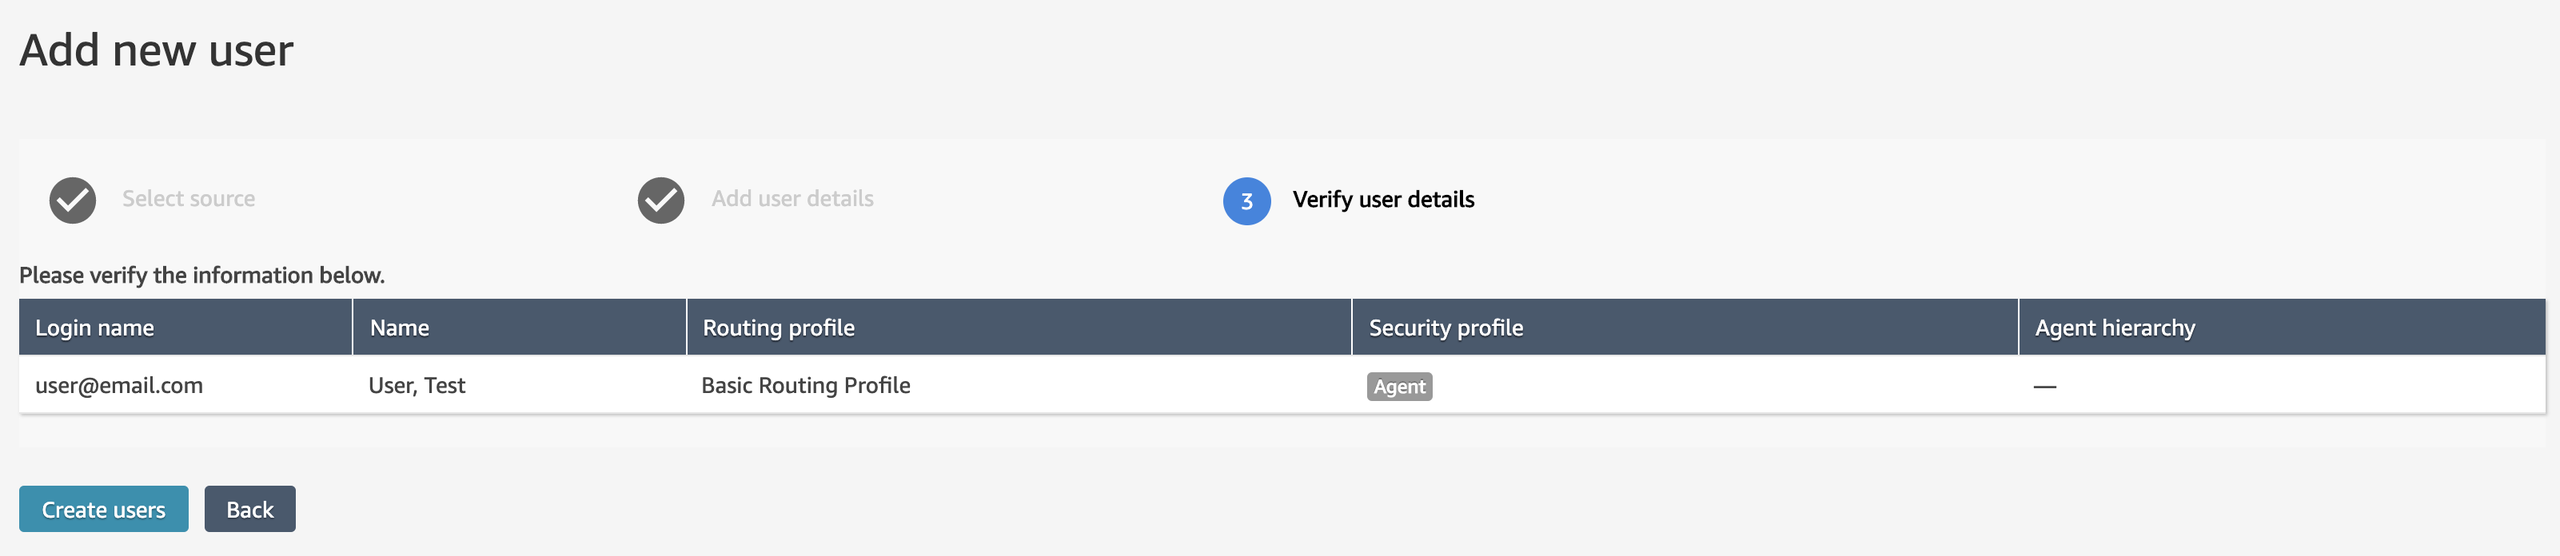
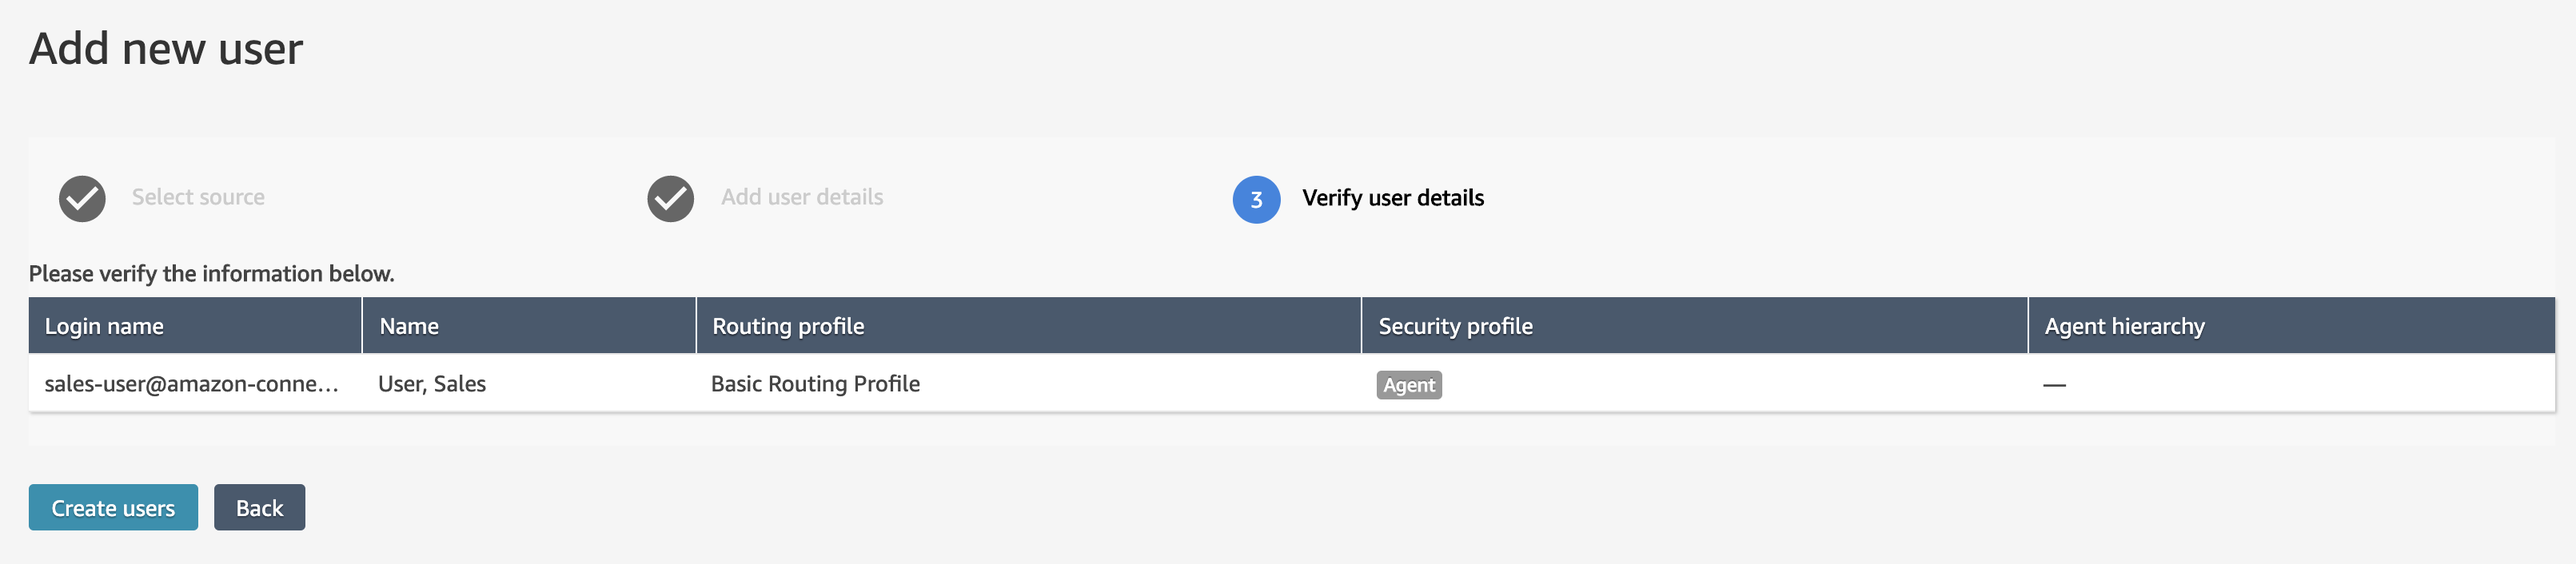
Adding SSO integration

diff --git a/content/start_the_workshop/saml_configuration/create_connect_agents.md b/content/start_the_workshop/saml_configuration/create_connect_agents.md
@@ -1,9 +1,9 @@
 +++
-title = "Create the first Connect Agent"
+title = "Create Connect agents"
 weight = 23
 +++
 
-After configuring the SSO, it is time to go ahead and create the firt Amazon Connect agent. With the SSO setup, users are created and defined in the Connect instance but all the password management will happen through the SSO. Let's then create a new user and see how this integration looks like.
+After configuring the SSO, it is time to go ahead and create the firt Amazon Connect agents. With the SSO setup, users are created and defined in the Connect instance but all the password management will happen through the SSO. Let's then create a few Connect users and see how this integration looks like.
 
 The first step here is to access your Amazon Connect instance with your administrator account (that we created in the previous lab) and create a new user. To do so, visit the [Amazon Connect console](https://console.aws.amazon.com/connect/home) and click in the *Access URL*. You will be taken to the Amazon Connect management portal. In this dashboard, click in the *User management* menu in the left side:
 
@@ -15,7 +15,7 @@ In the new screen, click in **Add new users** buton in the top right corner:
 
 There are mainly two options to create users in the Amazon Connect instance: manually and upload a template with multiple users. In our case, let's just create a single users that we will use for testing. In the *Add new users* screen, make sure that the option **Create and set up a new user.** is selected and click in **Next**.
 
-Fill the user information making sure that you are using a valid email address. Please note that the email used in this step will have to match with the email for the user provisioned in the SSO instance. 
+Enter **Sales** for the First Name and **User** for the last name. Enter **sales@aws-connect-workshop.com** for the Login Name.
 
 After filling the user information, select the **Routing profile** and for the security profile select **Agent**. After filling the user information, click in **Save**:
 
@@ -26,11 +26,28 @@ In the confirmation screen, click in the **Create users** button.
 
 ![CreateUser](/images/enable-aws-sso/create_user.png)
 
-After creating the user in the Connect instance, it is time to provision the user in the SSO. To do so, access the [AWS SSO console](https://console.aws.amazon.com/singlesignon/home#/users) and under the *Users* menu click in the **Add User** button. Then, add information about the new user. Make sure that you are using the **same email address that you used when creating the user in the Connect instance**. After, click in the **Next: Groups** button:
+After creating the *Sales* user, click in the button **Create more users** and create two more users: one for the **Service**  and another one for the **Parts** departments.
+
+Once you complete the other 2 agents you user list should look like this.
+
+![UsersList](/images/enable-aws-sso/connect_users_list.png)
+
+
+After creating the users in the Connect instance, it is time to provision them in the SSO. To do so, access the [AWS SSO console](https://console.aws.amazon.com/singlesignon/home#/users) and under the *Users* menu click in the **Add User** button. Then, add information about the new user. Make sure that you are using the **same email address that you used when creating the user in the Connect instance**. 
+
+{{% notice info %}}
+By default, when creating a new user in SSO, the Amazon SSO Service will send an email to the user's email address with login information and asking for a new password. Given that in this workshop we are not using a valid domain name, make sure you are selecting the option **Generate a one-time password that you can share with the user** before creating the user. 
+{{% /notice %}}
+
+After, click in the **Next: Groups** button:
 
 ![CreateSsoUser](/images/enable-aws-sso/create_sso_user.png)
 
 To make our life easier, let's now create a group that will be used by all the Connect Agents. To do so, click in the **Create group** button in the top of the screen. Name your group *ConnectAgents* and click in the **Create button**. After creating the group, make sure you have it selected in the Groups screen before clicing in the **Add user** button.
+
+When finishing the user creation, you will be able to get the user password from the screen. Please make sure you copy this information, so you can access the system with this user later:
+
+![GetUserPassword](/images/enable-aws-sso/get_user_password.png)
 
 After creating the user and the group, you should get back to the Connect application created in the SSO and allow access to it. To do so, click in the [Applications menu](https://console.aws.amazon.com/singlesignon/home#/applications) on the SSO page and click in the *Amazon Connect* application. There, navigate to the **Assigned users** tab and click in the button **Assign users**:
 
@@ -42,7 +59,12 @@ Now, select the *Groups* tab, select the *ConnectAgents* group and click in the 
 
 By selecting the group there, it will be easier for you to add more agents in your Connect instance in the future, so you don't need to assign every individual user to the Connect application created on the AWS SSO.
 
-When creating the new user, an email will be sent to the email address used with information about the Single Sign-On instance. You will have to click in the **Accept invitation** link, to be redirected to the SSO portal. A password change will be requested and after changing the password, you will be able to login to the SSO and see the Amazon Connect application:
+
+Repeat the steps to create both the **Parts** and the **Service** users in the SSO.
+
+After creating the users, you should be able to access the SSO interface with them. To get the login URL, please go to the [AWS SSO](https://console.aws.amazon.com/singlesignon/home) console. You will find the SSO portal URL under *User portal*.
+
+Note that during the first login, a password change will be asked. After changing the password and logging in the system, the agents will be able to see the **Amazon Connect** application:
 
 ![ConnectSsoApplication](/images/enable-aws-sso/connect_sso_application.png)
 

diff --git a/content/start_the_workshop/saml_configuration/create_admin_user.md b/content/start_the_workshop/saml_configuration/create_admin_user.md
@@ -1,0 +1,47 @@
++++
+title = "Create the Connect Admin"
+weight = 25
++++
+
+No that you already have the SSO Application for the admin user, let's go ahead and create the first admin user that we will be using during the workshop. Access your Amazon Connect instance using the link available in the [Amazon Connect console](https://console.aws.amazon.com/connect/home).
+
+{{% notice info %}}
+In case you're not able to login with the first user, because you have enabled the SSO, you can click in your connect instance name and use the **Emergency access** link. This will provide you admin access to your Amazon Connect instance with an Admin profile. Please note that we don't recommend you to use this link in your day-to-day operations.
+{{% /notice %}}
+
+After logging in, click in the **User management** menu on the left side and then click in the **Add new users** button. Proceed to create a new user and use **Admin** for the first name, **User** for the last name and **admin-user@amazon-connect-workshop.com** as the login name.
+
+Make sure you select **Basic Routing Profile** as the Routing Profile and **Admin** as the Security Profile:
+
+![CreateAdminUser](/images/enable-aws-sso/create_connect_admin_user.png)
+
+Click in **Save** and then in the **Create users** button.
+
+After creating the admin user in Connect, get back to the [AWS SSO](https://console.aws.amazon.com/singlesignon/home) page so we can provision the user there as well. 
+
+Start by creating a group named **ConnectAdmins**. To do so, in the SSO page, click in **Groups** in the left menu and then click in **Create group**:
+
+![CreateAdminGroup](/images/enable-aws-sso/create_admin_group.png)
+
+In the next screen, name your group **ConnectAdmins**, add a description and click in **Create**:
+
+![AdminGroupDetails](/images/enable-aws-sso/admin_group_details.png)
+
+Now, get back to the SSO Users screen and create a new user. Make sure you are using the same email address that you have used when creating your user in Amazon Connect and to select the **Generate a one-time password that you can share with the user** option.
+
+![AdminUserDetails](/images/enable-aws-sso/admin_user_details.png)
+
+You can then assign the admin user to the Admin group and then click in **Add user**:
+
+![AdminUserGroup](/images/enable-aws-sso/admin_user_group.png)
+
+Make sure you store the user password for the admin user.
+
+After creating the user and group, it is time to assign the group to the Amazon Connect admin application. To do so, click in the **Applications** menu on the left page of the SSO screen and then click in the **Amazon Connect - Admin** application. There, click in the tab **Assigned users** and then in the button **Assign users**:
+
+![AssignAdminGroup](/images/enable-aws-sso/assign_admin_group.png)
+
+In the next screen, click in the tab **Groups** and then select the **ConnectAdmins** group. After selecting it, click in the **Assign users** button. When logging with the admin user in the SSO URL, you should be able to see the Amazon Connect admin application:
+
+![ConnectAdminApp](/images/enable-aws-sso/connect_admin_app.png)
+
